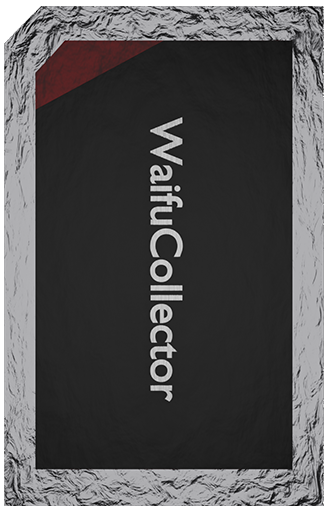
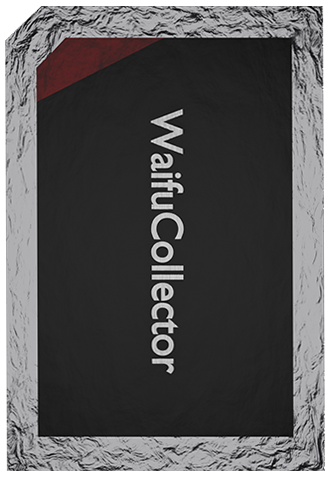
card progress

diff --git a/react_app/src/components/WaifuCard.js b/react_app/src/components/WaifuCard.js
@@ -1,0 +1,123 @@
+import React, {Component} from 'react'
+import ResizeText from "./ResizeText"
+
+import './WaifuCard.scss'
+
+class WaifuCard extends Component {
+    constructor(props) {
+        super();
+
+        this.props = props;
+
+        this.img = props.img;
+        this.effect = props.effect;
+        this.effectopacity = props.effectopacity;
+        this.framefront = props.framefront;
+        this.frameback = props.frameback;
+        this.cardname = props.cardname;
+        this.animename = props.animename;
+        this.quality = props.quality;
+        this.level = props.level;
+        this.size = parseFloat(props.size);
+        this.level = props.level;
+        this.uuid = props.uuid;
+        this.cardID = props.cardID;
+        this.backcolor = props.backcolor;
+        this.identifier = props.identifier;
+
+        this.state = {
+            turned: props.turned === "true"
+        }
+    }
+
+    onTurn() {
+        this.setState({turned: false});
+    }
+
+    render() {
+        return (
+            <div
+                className="waifucard"
+                onClick={() => {this.onTurn()}}
+                style={{
+                    width: `${WaifuCard.DEFWIDTH * this.size}px`,
+                    height: `${WaifuCard.DEFHEIGTH * this.size}px`
+                }}
+            >
+                <div
+                    className="waifucard-inner"
+                    style={{
+                        backgroundImage: `url(${this.img})`,
+                        transform: `rotateY(${this.state.turned ? 180 : 0}deg)`
+                    }}
+                />
+                <div
+                    className="waifucard-effect"
+                    style={{
+                        backgroundImage: `url(${this.effect})`,
+                        transform: `rotateY(${this.state.turned ? 180 : 0}deg)`,
+                        opacity: `${this.effectopacity}`
+                    }}
+                />
+                <div
+                    className="waifucard-framefront"
+                    style={{
+                        backgroundImage: `url(${this.framefront})`,
+                        transform: `rotateY(${this.state.turned ? 180 : 0}deg)`
+                    }}
+                />
+                <div
+                    className="waifucard-frameback"
+                    style={{
+                        backgroundImage: `url(${this.frameback})`,
+                        transform: `rotateY(${this.state.turned ? 0 : 180}deg)`
+                    }}
+                />
+                <div
+                    className="waifucard-name"
+                    style={{
+                        transform: `rotateY(${this.state.turned ? 180 : 0}deg)`,
+                    }}
+                >
+                    <ResizeText>
+                        {this.cardname}
+                    </ResizeText>
+                </div>
+                <div
+                    className="waifucard-anime"
+                    style={{
+                        transform: `rotateY(${this.state.turned ? 180 : 0}deg)`,
+                    }}
+                >
+                    <ResizeText>
+                        {this.animename}
+                    </ResizeText>
+                </div>
+                <div
+                    className="waifucard-quality"
+                    style={{
+                        transform: `rotateY(${this.state.turned ? 180 : 0}deg)`,
+                        fontSize: `${WaifuCard.DEFFONT * this.size}px`
+                    }}
+                >
+                    {this.quality}
+                </div>
+                <div
+                    className="waifucard-level"
+                    style={{
+                        transform: `rotateY(${this.state.turned ? 180 : 0}deg)`,
+                        fontSize: `${WaifuCard.DEFFONT * this.size}px`
+                    }}
+                >
+                    {this.level}
+                </div>
+            </div>
+        );
+    }
+}
+
+WaifuCard.DEFWIDTH = 253;
+WaifuCard.DEFHEIGTH = 365;
+WaifuCard.DEFFONT = 50;
+
+export default WaifuCard;

diff --git a/react_app/src/pages/Home.js b/react_app/src/pages/Home.js
@@ -2,6 +2,7 @@ import React from 'react'
 import Card from '../components/Card'
 import PackGraph from '../components/PackGraph'
 import Foldable from '../components/Foldable'
+import WaifuCard from '../components/WaifuCard'
 
 import "./Home.scss"
 
@@ -16,6 +17,21 @@ function Home() {
                 <PackGraph styleClassName="packGraph" />
             </Card>
 
+            <WaifuCard
+                img="http://localhost:10001/Card/Card_Ichigo.jpg"
+                framefront="http://localhost:10001/Frame/Frame_Silver_Front.png"
+                frameback="http://localhost:10001/Frame/Frame_Silver_Back.png"
+                effect="http://localhost:10001/Effect/Effect1.gif"
+                cardname="Ichigo"
+                animename="Darling In The FranXX"
+                size="1"
+                quality="5"
+                level="1"
+                turned="true"
+                effectopacity="0.5"
+            >
+            </WaifuCard>
+
             <Foldable
                 title="Tutorial"
                 styleClassName="tutorial"
@@ -24,9 +40,6 @@ function Home() {
                 <p>In this game you can collect, upgrade and trade Waifu-Cards.</p>
                 <p>Every 30 minutes you can pull a Waifu-Card.
 				<br />Each Waifu-Card starts with Level 1 and a random Quality from 1-5 (X: Quality, Y: Level).</p>
-
-                <waifu-card img_path="<%- api_url %>/Card/Card_ZeroTwo.jpg" frame-front="<%- api_url %>/Frame/Frame_Silver_Front.png" frame-back="" pos-x="10" card-name="Name" anime-name="Anime" turned="false" quality="X" level="Y" card-size="1"></waifu-card>
-
                 <h5>Upgrading</h5>
                 <p>By Combining 2 Cards of the same Character and Level you can Upgrade them.
 				<br />The Chance for the Upgrade to succeede in % is (Quality1 + Quality2) * 10.</p>
@@ -43,7 +56,7 @@ function Home() {
                 <p>If you have any copyright related issues please contact me (contact.waifucollector@gmail.com), I will happily resolve the issue.</p>
                 <p>Everything is nonprofit, so I would be thankful if we could solve the problems together without any sort of legal process.</p>
             </Foldable>
-        </div>
+        </div >
 
     )
 }

diff --git a/react_app/src/components/WaifuCard.scss b/react_app/src/components/WaifuCard.scss
@@ -1,0 +1,91 @@
+@import '../scss/_base';
+
+.waifucard
+{
+  cursor: pointer;
+  position: relative;
+
+  .waifucard-inner,
+  .waifucard-framefront,
+  .waifucard-frameback,
+  .waifucard-effect,
+  .waifucard-name,
+  .waifucard-anime,
+  .waifucard-quality,
+  .waifucard-level
+  {
+    backface-visibility: hidden;
+    position: absolute;
+    background-repeat: no-repeat;
+    background-size: 100%;
+    top: 0;
+    left: 0;
+    transition-duration: 1s;
+
+    &.waifucard-inner{
+      margin: 12% 10%;
+      width: 80%;
+      height: 84%;
+    }
+
+    &.waifucard-effect{
+      margin: 12% 11.2%;
+      width: 77%;
+      height: 83%;
+    }
+
+    &.waifucard-framefront, &.waifucard-frameback
+    {
+      width: 100%;
+      height: 100%;
+    }
+
+    &.waifucard-name, &.waifucard-anime
+    {
+      color: $cardFontColor;
+      width: 49%;
+      height: 7%;
+      font-size: 500%;
+
+      &.waifucard-name
+      {
+        margin-left: 23%;
+        margin-top: 3%;
+      }
+
+      &.waifucard-anime
+      {
+        margin-left: 31.8%;
+        margin-top: 132%;
+      }
+    }
+
+    &.waifucard-quality, &.waifucard-level
+    { 
+      width: min-content;
+      text-shadow:
+        -1.5px -1.5px 0 #000,
+         0   -1.5px 0 #000,
+         1.5px -1.5px 0 #000,
+         1.5px  0   0 #000,
+         1.5px  1.5px 0 #000,
+         0    1.5px 0 #000,
+        -1.5px  1.5px 0 #000,
+        -1.5px  0   0 #000;
+
+      transform-origin: 50% 50%;
+
+      &.waifucard-quality
+      {
+        margin-left: 84%;
+        color: $cardFontColorQuality;
+      }
+
+      &.waifucard-level
+      {
+        color: $cardFontColorLevel;
+        margin-left: 1%;
+      }
+    }
+  }
+}

diff --git a/react_app/src/pages/Home.scss b/react_app/src/pages/Home.scss
@@ -19,16 +19,20 @@
     width: 100%;
     height: 100%;
 
-    grid-template-columns: 25% auto 25%;
-    grid-template-rows: 70% minmax(min-content, max-content) minmax(min-content, max-content);
+    grid-template-columns: 50% 50%;
+    grid-template-rows: 70% minmax(min-content, max-content);
+
+    @media screen and (max-width: $breakpoint-sm)
+    {
+        grid-template-rows: 60% minmax(min-content, max-content) minmax(min-content, max-content);
+    }
 
     column-gap: 25px;
     row-gap: 25px;
 
     grid-template-areas: 
-        "packGraph packGraph packGraph"
-        "tutorial tutorial tutorial"
-        "copyright copyright copyright";
+        "packGraph packGraph"
+        "tutorial copyright";
 
     .packGraphWrapper {
         grid-area: packGraph;
@@ -42,6 +46,5 @@
     .copyright
     {
         grid-area: copyright;
-        margin-bottom: 20px;
     }
 }

diff --git a/react_app/src/components/ResizeText.js b/react_app/src/components/ResizeText.js
@@ -1,0 +1,21 @@
+import React, {Component} from 'react'
+import FitText from '@plutonium-js/react-fit-text'
+
+import "./ResizeText.scss"
+
+class ResizeText extends Component {
+    constructor(props) {
+        super();
+        this.props = props;
+    }
+
+    render() {
+        return (
+            <FitText className="resizetext">
+                {this.props.children}
+            </ FitText>
+        );
+    }
+}
+
+export default ResizeText;

diff --git a/react_app/src/scss/__base.scss b/react_app/src/scss/__base.scss
@@ -1,4 +1,3 @@
-
 /* Standard */
 
 $background-primary: #252525;
@@ -21,3 +20,8 @@ $breakpoint-sm: 576px;
 $breakpoint-md: 768px;
 $breakpoint-lg: 992px;
 $breakpoint-xl: 1200px;
+
+/* WaifuCard */
+$cardFontColor: #1E1E1E;
+$cardFontColorLevel: #E0BF06;
+$cardFontColorQuality: #A3A3A3;

diff --git a/react_app/src/App.scss b/react_app/src/App.scss
@@ -7,7 +7,7 @@
 
 }
 
-h1, h2, h3, h4, h5, h6, p, span, a, table{
+h1, h2, h3, h4, h5, h6, p, span, a, table, div{
 
     font-family: 'Epilogue';
     

diff --git a/react_app/src/components/Navbar.scss b/react_app/src/components/Navbar.scss
@@ -1,4 +1,3 @@
-
 @import '../scss/_base';
 
 @import '~react-pro-sidebar/dist/scss/styles.scss';

diff --git a/react_app/src/components/ResizeText.scss b/react_app/src/components/ResizeText.scss
@@ -1,0 +1,6 @@
+.resizetext
+{
+    width: 100%;
+    height: 100%;
+    text-align: center;
+}

diff --git a/react_app/src/components/PackGraph.scss b/react_app/src/components/PackGraph.scss
@@ -1,4 +1,3 @@
-
 .graphContainer
 {
     width: 100%;
